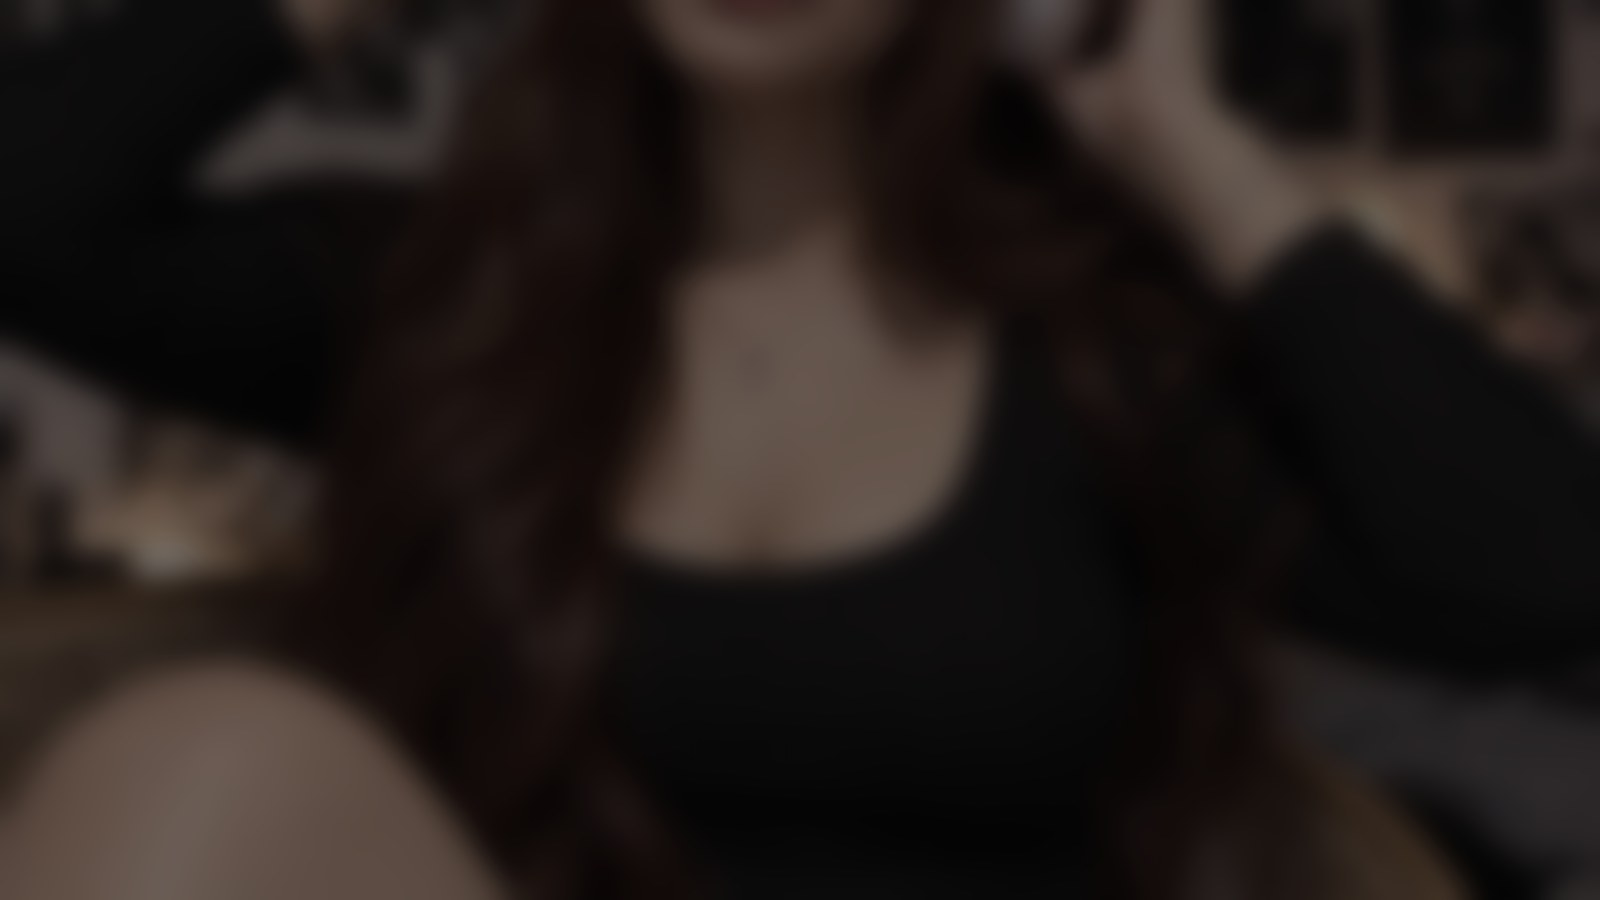
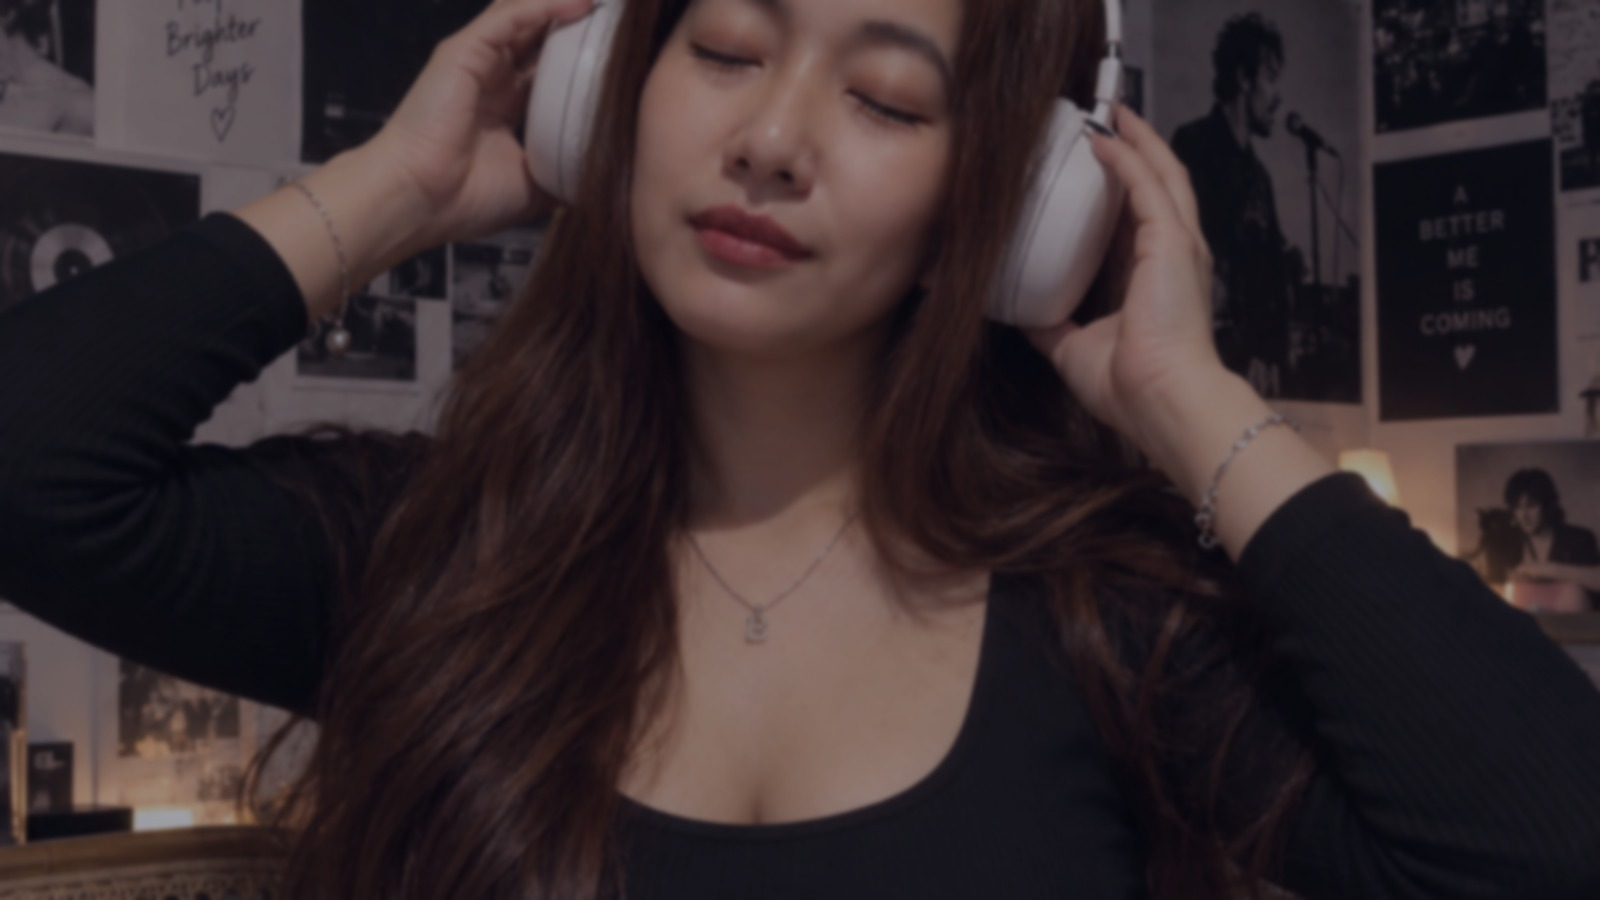
Add files via upload

diff --git a/index.html b/index.html
@@ -29,7 +29,7 @@
     }
     body::before {
       content: ""; position: fixed; inset: -18px; z-index: -2;
-      background-image: url("social-hub-background-v2.jpg");
+      background-image: url("social-hub-background.jpg");
       background-position: center; background-size: cover; background-repeat: no-repeat;
       filter: blur(5px); transform: scale(1.03);
     }
@@ -41,35 +41,12 @@
     .wrap { position: relative; width: min(100% - 28px, 540px); margin: auto; padding: 28px 0 36px; }
     header { text-align: center; margin-bottom: 20px; }
     .avatar {
-  width: 136px;
-  height: 136px;
-  margin: 0 auto 12px;
-  position: relative;
-  border-radius: 50%;
-  border: 2px solid #aaa0ff;
-  box-shadow: 0 0 24px #7167f6a6;
-  background: #161d44;
-  overflow: visible;
-}
-
-.avatar img {
-  width: 100%;
-  height: 100%;
-  display: block;
-  object-fit: cover;
-  object-position: center 25%;
-  border-radius: 50%;
-}
-
-.avatar::after {
-  content: "🦋";
-  position: absolute;
-  right: -4px;
-  bottom: 0;
-  font-size: 38px;
-  filter: drop-shadow(0 0 8px #8f80ff);
-}
-    
+      width: 92px; height: 92px; display: grid; place-items: center; margin: 0 auto 12px;
+      border-radius: 50%; border: 1px solid rgba(195, 191, 255, .7);
+      background: linear-gradient(145deg, rgba(28, 54, 95, .95), rgba(45, 34, 82, .9));
+      box-shadow: 0 0 22px rgba(110, 103, 186, .24);
+      font-size: 48px;
+    }
     h1 { margin: 6px 0; font-size: clamp(28px, 7vw, 38px); letter-spacing: .4px; }
     .subtitle { margin: 7px 0 0; color: var(--moon); font-size: 14px; }
     .motto { color: #d0c9f2; font-size: 11px; letter-spacing: 2px; margin-top: 12px; }
@@ -85,11 +62,7 @@
       box-shadow: 0 4px 14px rgba(0,0,0,.18); transition: transform .18s, border-color .18s;
     }
     .social:active { transform: scale(.97); }
-    .social-icon { font-size: 25px; line-height: 1.1; } .social-icon svg {
-  width: 34px;
-  height: 34px;
-  display: block;
-    }
+    .social-icon { font-size: 25px; line-height: 1.1; }
     .social-name { font-size: 12px; font-weight: 650; overflow-wrap: anywhere; }
     .social-note { color: #c4cbe5; font-size: 10px; margin-top: 3px; }
     button, .button {
@@ -129,7 +102,7 @@
     body::after { background: linear-gradient(120deg, rgba(5, 10, 30, .70), rgba(16, 19, 49, .60) 50%, rgba(5, 10, 30, .74)); }
     .wrap { width: min(100% - 28px, 1120px); padding-top: 30px; }
     .avatar { width: 136px; height: 136px; position: relative; overflow: visible; font-size: 0;
-      background: linear-gradient(rgba(17, 20, 48, .12), rgba(17, 20, 48, .12)), url("social-hub-background.jpg") center 25% / cover no-repeat;
+      background: linear-gradient(rgba(17, 20, 48, .12), rgba(17, 20, 48, .12)), url("social-hub-profile.jpg") center 25% / cover no-repeat;
       border: 2px solid #a99dff; box-shadow: 0 0 24px rgba(121, 108, 255, .62); }
     .avatar::after { content: "🦋"; position: absolute; right: -7px; bottom: 0; font-size: 36px; filter: drop-shadow(0 0 8px #877aff); }
     h1 { font-size: clamp(30px, 5vw, 46px); text-shadow: 0 2px 14px #05091c; }
@@ -138,6 +111,8 @@
     .social-grid { gap: 12px; }
     .social { min-height: 116px; padding: 14px 8px; border-radius: 20px; background: rgba(36, 43, 78, .64); backdrop-filter: blur(12px); box-shadow: 0 4px 18px rgba(0,0,0,.2); }
     .social-icon { font-size: 34px; }
+    .social-icon svg { width: 34px; height: 34px; display: block; }
+    .social-icon { display: grid; place-items: center; min-height: 34px; }
     .social-name { font-size: 15px; }
     .social-note { font-size: 11px; }
     .qr-card { max-width: 360px; margin: 18px auto 0; padding: 16px; border: 0; background: transparent; }
@@ -152,9 +127,7 @@
 <body>
   <main class="wrap">
     <header>
-      <div class="avatar" role="img" aria-label="My profile photo">
-  <img src="social-hub-profile.jpg" alt="My profile photo">
-      </div>
+      <div class="avatar" role="img" aria-label="Profile photo with butterfly accent"></div>
       <h1>My Social Hub</h1>
       <div class="subtitle">All my socials in one place 🦋</div>
       <div class="motto">SCAN · CONNECT · FOLLOW</div>
@@ -196,12 +169,12 @@
 
   <script>
     const mainPlatforms = [
-  { id: "facebook", name: "Facebook", icon: "facebook" },
-{ id: "instagram", name: "Instagram", icon: "instagram" },
-{ id: "messenger", name: "Messenger", icon: "messenger" },
-{ id: "threads", name: "Threads", icon: "threads" },
-{ id: "tiktok", name: "TikTok", icon: "tiktok" }
-];
+      { id: "facebook", name: "Facebook", icon: "📘" },
+      { id: "instagram", name: "Instagram", icon: "📸" },
+      { id: "messenger", name: "Messenger", icon: "💬" },
+      { id: "threads", name: "Threads", icon: "🧵" },
+      { id: "tiktok", name: "TikTok", icon: "🎵" }
+    ];
     const extraPlatforms = [
       { id: "x", name: "X (Twitter)", icon: "𝕏", group: "Social media" },
       { id: "threadsOther", name: "Threads — other profile", icon: "🧵", group: "Social media" },
@@ -247,63 +220,63 @@
     }
     let links = loadLinks();
 
+    // Public defaults are embedded in the page so visitors on other phones can use them.
+    const defaultLinks = {
+      facebook: "https://www.facebook.com/share/1LQnrmYHEX/",
+      instagram: "https://www.instagram.com/imalditha21/",
+      messenger: "https://m.me/Imalditha89",
+      threads: "https://www.threads.com/@imalditha21",
+      tiktok: "https://www.tiktok.com/@itsirys.21",
+      x: "https://x.com/itsirys",
+      threadsOther: "https://www.threads.com/@spawttedpetsupplies21",
+      tiktokBusiness: "https://www.tiktok.com/@spawttedpetsupplies",
+      facebookPage: "https://www.facebook.com/share/18ZgGW7NSF/",
+      messengerChannel: "https://m.me/108490980625671",
+      whatsappMain: "https://wa.me/qr/60LCJM7SWIGYD1",
+      whatsappBusiness: "https://wa.me/639171486131",
+      viber: "viber://chat?number=%2B639218434655",
+      businessGmail: "spawttedpetsupplies@gmail.com",
+      email: "erizalynj@gmail.com",
+      businessPage: "https://grab.onelink.me/2695613898?pid=inappsharing&c=2-C6JDJJJTKFAUAE&is_retargeting=true&af_dp=grab%3A%2F%2Fopen%3FscreenType%3DGRABMART%26sourceID%3DA4pcqCZkS4%26merchantIDs%3D2-C6JDJJJTKFAUAE&af_force_deeplink=true&af_web_dp=https%3A%2F%2Fwww.grab.com%2Fdownload"
+    };
+    // Keep saved non-empty edits, but fill blank/missing values from the public defaults.
+    links = Object.fromEntries(allPlatforms.map(p => [
+      p.id,
+      typeof links[p.id] === "string" && links[p.id].trim() ? links[p.id] : (defaultLinks[p.id] || "")
+    ]));
+
     function normalizedUrl(p, value) {
       const trimmed = (value || "").trim();
       if (!trimmed) return "";
       if ((p.id === "email" || p.id === "businessGmail") && !trimmed.includes(":") && trimmed.includes("@")) return "mailto:" + trimmed;
       return trimmed;
     }
-    
-function makeCard(p, isMore = false) {
-  const url = normalizedUrl(p, links[p.id] || "");
-  const ok = validUrl(url, p.id);
+    const logos = {
+      facebook: '<svg viewBox="0 0 24 24" aria-hidden="true"><path fill="#1877F2" d="M24 12a12 12 0 1 0-13.875 11.85v-8.38H7.078V12h3.047V9.356c0-3.007 1.792-4.669 4.533-4.669 1.313 0 2.686.235 2.686.235v2.953h-1.513c-1.49 0-1.955.925-1.955 1.874V12h3.328l-.532 3.47h-2.796v8.38A12.003 12.003 0 0 0 24 12Z"/></svg>',
+      instagram: '<svg viewBox="0 0 24 24" aria-hidden="true"><defs><linearGradient id="igGradient" x1="0" y1="24" x2="24" y2="0"><stop stop-color="#FFB13D"/><stop offset=".48" stop-color="#E1306C"/><stop offset="1" stop-color="#833AB4"/></linearGradient></defs><rect x="2.2" y="2.2" width="19.6" height="19.6" rx="5.8" fill="none" stroke="url(#igGradient)" stroke-width="2.4"/><circle cx="12" cy="12" r="4.5" fill="none" stroke="#E9DDFE" stroke-width="2"/><circle cx="18" cy="6.4" r="1.35" fill="#F5B5DB"/></svg>',
+      messenger: '<svg viewBox="0 0 24 24" aria-hidden="true"><path fill="#168AFF" d="M12 1.5C5.93 1.5 1 6.08 1 11.73c0 3.22 1.59 6.08 4.08 7.94V23l3.72-2.04c1.01.28 2.09.43 3.2.43 6.07 0 11-4.58 11-10.23S18.07 1.5 12 1.5Z"/><path fill="#fff" d="m5.8 14.7 4.7-5 2.55 2.45 5.15-2.45-4.7 5-2.55-2.45z"/></svg>',
+      threads: '<svg viewBox="0 0 24 24" aria-hidden="true"><path fill="currentColor" d="M12.1 1.1c-5.7 0-9.4 4.1-9.4 10.6 0 6.8 3.6 11.2 9.3 11.2 5 0 8.2-3 8.2-7.3 0-3.3-1.8-5.5-5.1-6.2-.5-2.2-1.8-3.3-3.9-3.3-2.2 0-3.8 1.3-4.3 3.3l2.2.6c.3-1.1 1-1.7 2.1-1.7 1 0 1.7.4 2 1.4-.5 0-1-.1-1.5-.1-3.5 0-5.7 1.8-5.7 4.7 0 2.6 1.9 4.4 4.7 4.4 2.8 0 4.8-1.7 5-4.9 1.5.7 2.2 1.9 2.2 3.7 0 3-2.2 5.1-6 5.1-4.3 0-7-3.6-7-9.5 0-5.2 2.7-8.5 7.2-8.5 3.3 0 5.5 1.7 6.3 4.7l2.2-.6C17.4 3.6 15.1 1.1 12.1 1.1Zm-.5 15.3c-1.5 0-2.4-.8-2.4-2.1 0-1.5 1.1-2.4 3.3-2.4.6 0 1.2.1 1.8.2-.1 2.9-1 4.3-2.7 4.3Z"/></svg>',
+      tiktok: '<svg viewBox="0 0 24 24" aria-hidden="true"><path fill="#25F4EE" d="M15.8 1h3.3c.2 2.1 1.4 4 3.4 4.8v3.4a10.2 10.2 0 0 1-3.4-1.1v7.1a7.1 7.1 0 1 1-7.1-7.1c.5 0 1 .1 1.5.2v3.6a3.7 3.7 0 1 0 2.3 3.4z"/><path fill="#FE2C55" d="M14.1 2.3h3.2c.2 2.1 1.4 4 3.4 4.8v3.4a10.2 10.2 0 0 1-3.4-1.1v7.1a7.1 7.1 0 0 1-7.1 7.1 7 7 0 0 1-4.8-1.9 7.1 7.1 0 0 0 10.4-6.3V8.3a10.2 10.2 0 0 0 3.4 1.1V6c-2-.8-3.2-2.7-3.4-4.8h-1.7Z"/><path fill="#fff" d="M16.7 1h2.4c.2 2.1 1.4 4 3.4 4.8v3.4a10.2 10.2 0 0 1-3.4-1.1v7.1a7.1 7.1 0 1 1-7.1-7.1c.5 0 1 .1 1.5.2v3.6a3.7 3.7 0 1 0 2.3 3.4z"/></svg>'
+    };
 
-  const a = document.createElement("a");
-  a.className = "social";
-  a.href = ok ? url : "#";
-  a.setAttribute("aria-label", p.name);
-
-  const icon = document.createElement("span");
-  icon.className = "social-icon";
-
-  const logos = {
-    facebook: `<svg viewBox="0 0 40 40" aria-hidden="true"><circle cx="20" cy="20" r="19" fill="#1877F2"/><path fill="#fff" d="M23 36V22h5l.8-5.5H23v-3.6c0-1.6.5-2.7 2.8-2.7H29V5.3c-1.1-.1-2.5-.3-4.2-.3-4.4 0-7.4 2.7-7.4 7.7v3.8h-5V22h5v14z"/></svg>`,
-    instagram: `<svg viewBox="0 0 40 40" aria-hidden="true"><defs><linearGradient id="igGradient" x1="0" y1="1" x2="1" y2="0"><stop stop-color="#FFD776"/><stop offset=".5" stop-color="#F56040"/><stop offset="1" stop-color="#C13584"/></linearGradient></defs><rect x="3" y="3" width="34" height="34" rx="10" fill="url(#igGradient)"/><rect x="10" y="10" width="20" height="20" rx="6" fill="none" stroke="#fff" stroke-width="2.5"/><circle cx="20" cy="20" r="5" fill="none" stroke="#fff" stroke-width="2.5"/><circle cx="27" cy="13" r="1.8" fill="#fff"/></svg>`,
-    messenger: `<svg viewBox="0 0 40 40" aria-hidden="true"><circle cx="20" cy="20" r="19" fill="#087CFA"/><path fill="#fff" d="M20 8C12.7 8 7 13.3 7 20c0 3.6 1.6 6.7 4.3 8.8V34l4.8-2.6c1.2.4 2.5.6 3.9.6 7.3 0 13-5.3 13-12S27.3 8 20 8zm1.4 16.2-4-4.3-7.5 4.3 8.2-8.7 4.1 4.3 7.4-4.3z"/></svg>`,
-    threads: `<svg viewBox="0 0 40 40" aria-hidden="true"><circle cx="20" cy="20" r="18" fill="#111"/><path d="M27 17c-.8-4.3-3.2-6.4-7.1-6.4-4.8 0-7.8 3.7-7.8 9.3 0 5.5 2.8 9.1 7.7 9.1 4 0 6.7-2.2 6.7-5.6 0-2.9-2-4.7-5.1-4.7-2.2 0-3.6 1-3.6 2.6 0 1.2.9 2 2.2 2 1.6 0 2.7-1.1 2.7-3.2 0-3.4-1.7-5.5-4.6-5.5" fill="none" stroke="#fff" stroke-width="2.2" stroke-linecap="round"/></svg>`,
-    tiktok: `<svg viewBox="0 0 40 40" aria-hidden="true"><path fill="#25F4EE" d="M22 5h5c.3 3.3 2.2 5.4 5.5 6v5.2c-2.2-.1-4.1-.8-5.5-1.9v11.1c0 5.3-3.8 9-9 9-4.8 0-8.5-3.5-8.5-8.2 0-5 4.1-8.7 9.1-8.7.6 0 1.2.1 1.8.2v5.4c-.6-.2-1.1-.3-1.7-.3-2 0-3.8 1.4-3.8 3.5 0 1.9 1.5 3.3 3.3 3.3 2.3 0 3.8-1.5 3.8-4.2z"/><path fill="#FE2C55" d="M19 8h5c.3 3.3 2.2 5.4 5.5 6v5.2c-2.2-.1-4.1-.8-5.5-1.9v11.1c0 5.3-3.8 9-9 9-4.8 0-8.5-3.5-8.5-8.2 0-5 4.1-8.7 9.1-8.7.6 0 1.2.1 1.8.2v5.4c-.6-.2-1.1-.3-1.7-.3-2 0-3.8 1.4-3.8 3.5 0 1.9 1.5 3.3 3.3 3.3 2.3 0 3.8-1.5 3.8-4.2z" opacity=".8"/><path fill="#fff" d="M21 5h5c.3 3.3 2.2 5.4 5.5 6v5.2c-2.2-.1-4.1-.8-5.5-1.9v11.1c0 5.3-3.8 9-9 9-4.8 0-8.5-3.5-8.5-8.2 0-5 4.1-8.7 9.1-8.7.6 0 1.2.1 1.8.2v5.4c-.6-.2-1.1-.3-1.7-.3-2 0-3.8 1.4-3.8 3.5 0 1.9 1.5 3.3 3.3 3.3 2.3 0 3.8-1.5 3.8-4.2z"/></svg>`
-  };
-
-  if (logos[p.id]) {
-    icon.innerHTML = logos[p.id];
-  } else {
-    icon.textContent = p.icon;
-  }
-
-  const name = document.createElement("span");
-  name.className = "social-name";
-  name.textContent = p.name;
-
-  const note = document.createElement("span");
-  note.className = "social-note";
-  note.textContent = ok ? "Open ↗" : "Add link";
-
-  a.append(icon, name, note);
-
-  a.addEventListener("click", event => {
-    if (!validUrl(links[p.id], p.id)) {
-      event.preventDefault();
-      openEditor();
-    } else {
-      a.target = "_blank";
-      a.rel = "noopener noreferrer";
+    function makeCard(p, isMore = false) {
+      const url = normalizedUrl(p, links[p.id] || defaultLinks[p.id] || "");
+      const a = document.createElement("a");
+      a.className = "social";
+      a.href = validUrl(url, p.id) ? url : "#";
+      a.setAttribute("aria-label", p.name);
+      const icon = document.createElement("span"); icon.className = "social-icon"; icon.innerHTML = logos[p.id] || p.icon;
+      const name = document.createElement("span"); name.className = "social-name"; name.textContent = p.name;
+      const note = document.createElement("span"); note.className = "social-note";
+      note.textContent = validUrl(url, p.id) ? "Open ↗" : "Add link";
+      a.append(icon, name, note);
+      a.addEventListener("click", event => {
+        if (!validUrl(url, p.id)) { event.preventDefault(); openEditor(); }
+        else { a.target = "_blank"; a.rel = "noopener noreferrer"; }
+      });
+      return a;
     }
-  });
-
-    return a;
-}
-
-function renderMain() {
+    function renderMain() {
       mainGrid.replaceChildren();
       mainPlatforms.forEach(p => mainGrid.append(makeCard(p)));
       const more = document.createElement("button");
@@ -315,7 +288,10 @@ function renderMain() {
     }
     function openMoreLinks() {
       moreList.replaceChildren();
-      const filled = extraPlatforms.filter(p => (links[p.id] || "").trim() && validUrl(normalizedUrl(p, links[p.id]), p.id));
+      const filled = extraPlatforms.filter(p => {
+        const value = links[p.id] || defaultLinks[p.id] || "";
+        return value.trim() && validUrl(normalizedUrl(p, value), p.id);
+      });
       filled.forEach(p => moreList.append(makeCard(p, true)));
       moreEmpty.hidden = filled.length > 0;
       if (!moreDialog.open) moreDialog.showModal();
@@ -357,7 +333,7 @@ function renderMain() {
           formMessage.textContent = `Please enter a full http:// or https:// link for ${p.name}.`;
           return;
         }
-        updated[p.id] = value;
+        updated[p.id] = value || defaultLinks[p.id] || "";
       }
       try {
         localStorage.setItem(storageKey, JSON.stringify(updated));

diff --git a/sw.js b/sw.js
@@ -1,5 +1,17 @@
-const CACHE="my-social-hub-v1";
-const ASSETS=["./","./index.html","./manifest.webmanifest","./icon-192.png","./icon-512.png"];
-self.addEventListener("install",e=>e.waitUntil(caches.open(CACHE).then(c=>c.addAll(ASSETS))));
-self.addEventListener("activate",e=>e.waitUntil(caches.keys().then(keys=>Promise.all(keys.filter(k=>k!==CACHE).map(k=>caches.delete(k))))));
-self.addEventListener("fetch",e=>{if(e.request.method!=="GET")return;e.respondWith(caches.match(e.request).then(cached=>cached||fetch(e.request).then(response=>{const copy=response.clone();caches.open(CACHE).then(c=>c.put(e.request,copy));return response}).catch(()=>caches.match("./index.html"))))});
+const CACHE_NAME = "my-social-hub-v1";
+const CORE_FILES = ["./", "./index.html", "./manifest.webmanifest", "./icon-192.png", "./icon-512.png", "./social-hub-background.jpg", "./social-hub-profile.jpg"];
+self.addEventListener("install", event => {
+  event.waitUntil(caches.open(CACHE_NAME).then(cache => cache.addAll(CORE_FILES)).then(() => self.skipWaiting()));
+});
+self.addEventListener("activate", event => {
+  event.waitUntil(caches.keys().then(keys => Promise.all(keys.filter(key => key !== CACHE_NAME).map(key => caches.delete(key)))).then(() => self.clients.claim()));
+});
+self.addEventListener("fetch", event => {
+  if (event.request.method !== "GET") return;
+  event.respondWith(caches.match(event.request).then(cached => cached || fetch(event.request).then(response => {
+    if (response && response.ok && new URL(event.request.url).origin === self.location.origin) {
+      const copy = response.clone(); caches.open(CACHE_NAME).then(cache => cache.put(event.request, copy));
+    }
+    return response;
+  }).catch(() => caches.match("./index.html"))));
+});
